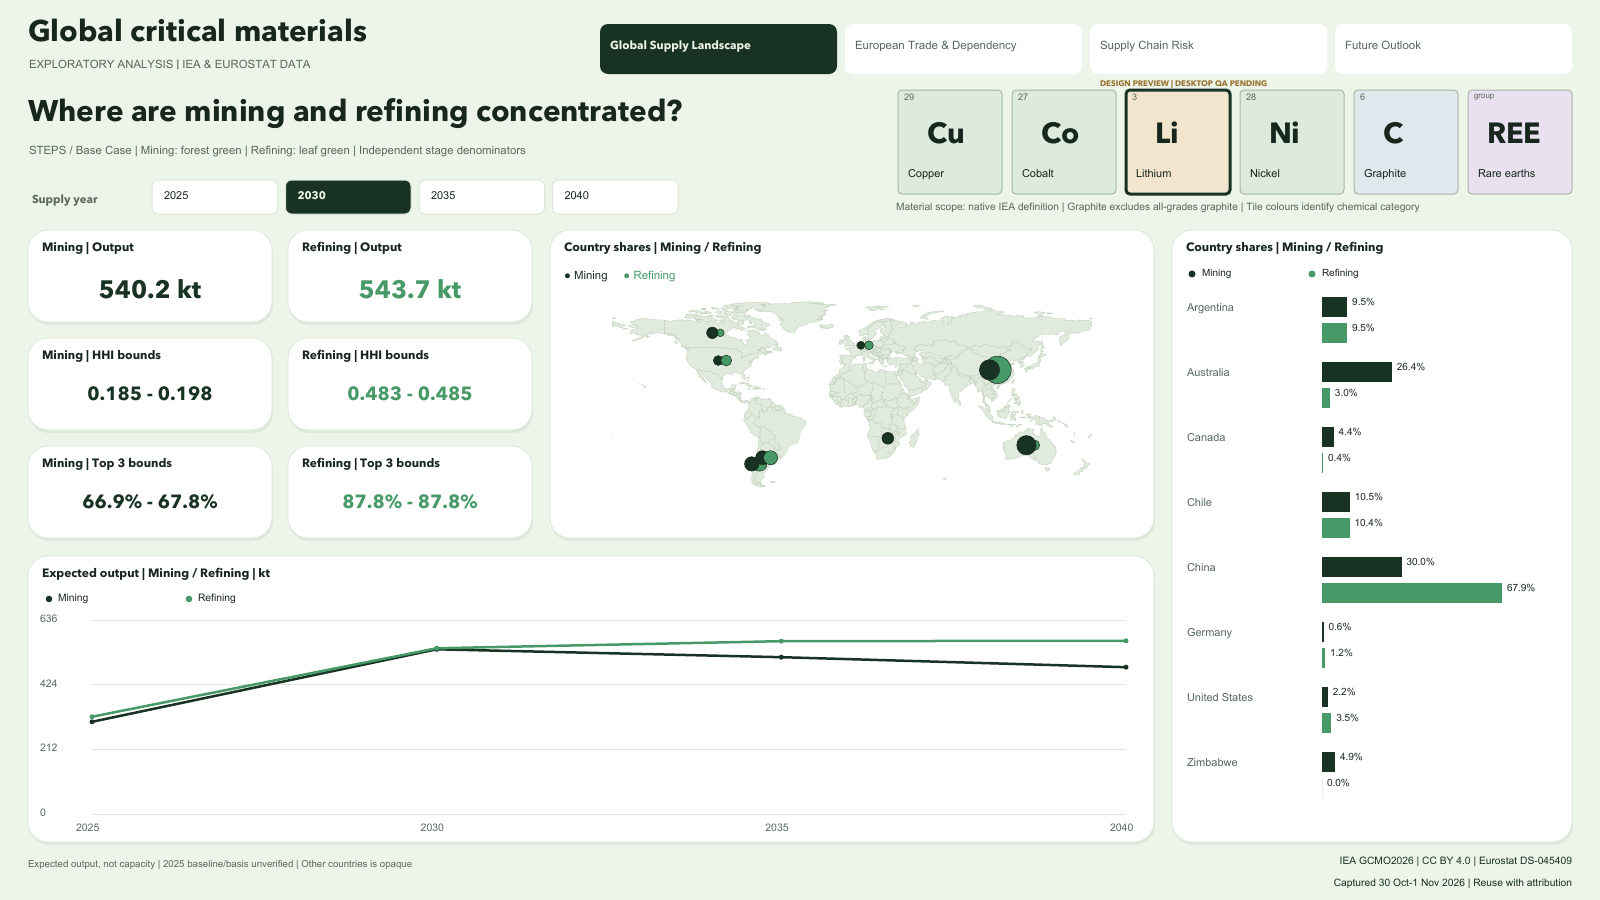
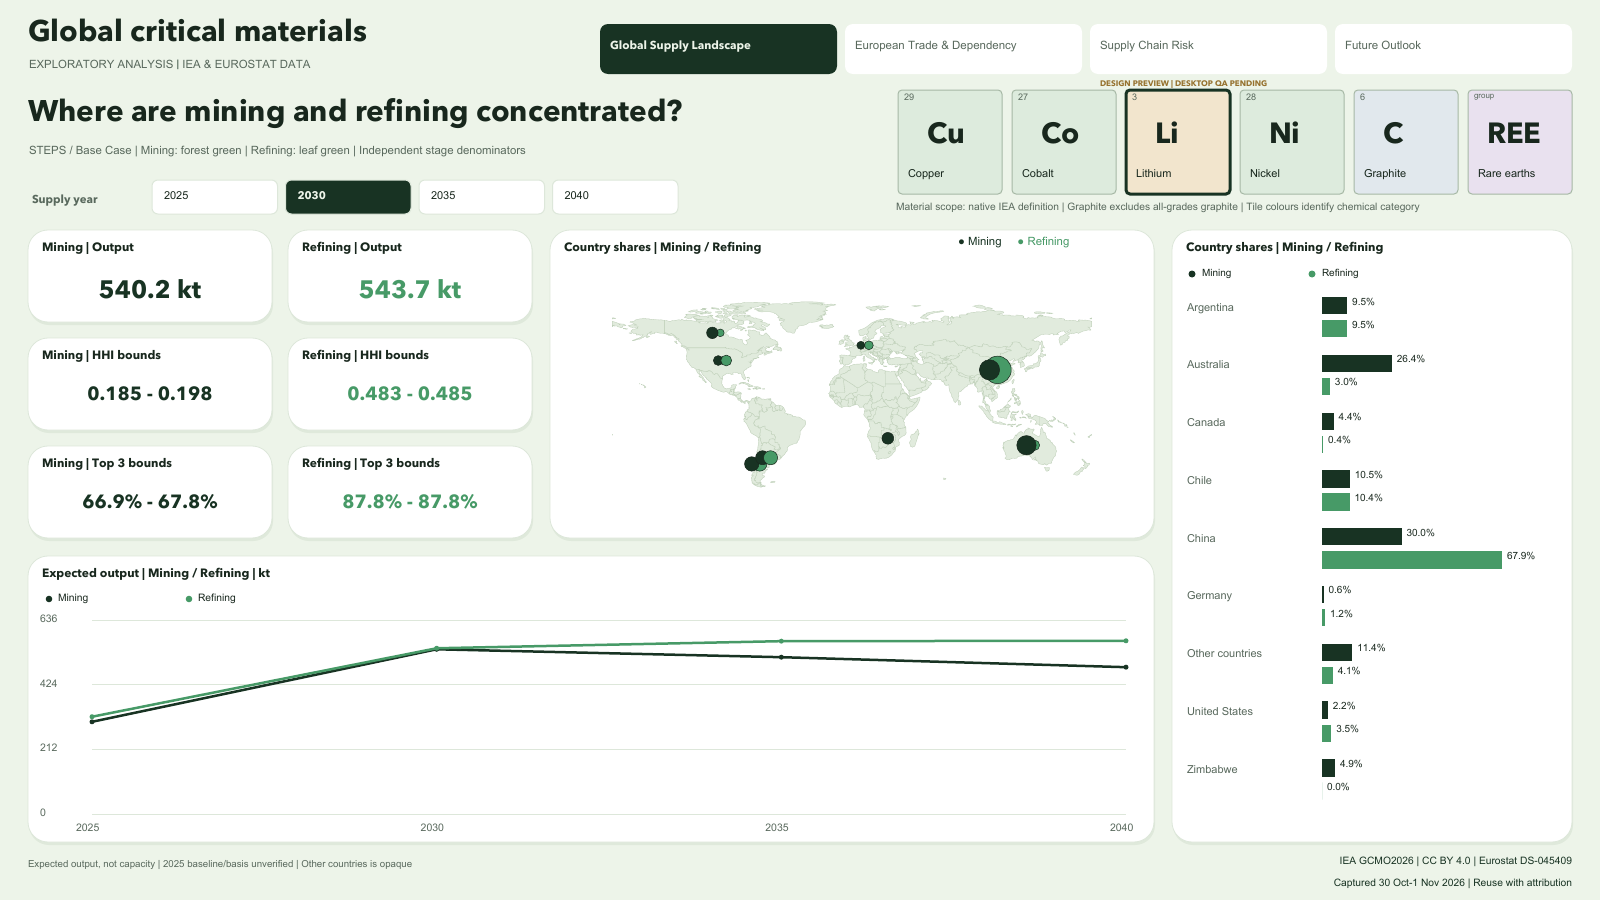
Show residual supply shares and move map legend into header

diff --git a/scripts/validate_powerbi_design.py b/scripts/validate_powerbi_design.py
@@ -51,6 +51,9 @@ def validate(project):
   if cfg['name']=='01_supply':
    country=next(v for v in visuals if v['visual']['visualType']=='clusteredBarChart')
    assert literal(country['visual']['objects']['labels'][0]['properties']['show'])=='true'
+   legend=next(v for v in text if v['visual']['objects']['general'][0]['properties']['paragraphs'][0]['textRuns'][0]['value']=='● Mining     ')
+   assert legend['position']['x']>=950 and legend['position']['y']<260
+   assert legend['visual']['objects']['general'][0]['properties']['paragraphs'][0]['horizontalTextAlignment']=='right'
    m=next(v for v in visuals if v['visual']['visualType']=='azureMap')['visual'];assert 'Series' not in m['query']['queryState']
    assert m['query']['queryState']['Category']['projections'][0]['queryRef']=='Supply.MapPoint'
   if cfg['name']=='04_outlook':
@@ -134,6 +137,14 @@ def validate(project):
  for table in ['Definitions','Products']:assert 'fromColumn: '+table+'.Family\n\ttoColumn: Materials.Family' in rel
  for table,col in [('Materials','Symbol'),('PartnerDisplay','PartnerDisplay'),('EndUses','EndUse')]:
   model=(project/'GlobalCriticalMaterials.SemanticModel/definition/tables'/(table+'.tmdl')).read_text();assert '\tcolumn '+col+'\n' in model and 'sortByColumn: SortOrder' in model
+ # Complete country bars include the opaque residual without assigning it a location.
+ from build_powerbi import MEASURES
+ assert 'IN {"country_or_territory","residual"}' in MEASURES['Country share']['expression']
+ assert 'Supply[EntityType]="country_or_territory"' in MEASURES['Map share']['expression']
+ panels=collections.defaultdict(list)
+ for r in rows('Supply'):panels[(r['DefinitionKey'],r['Year'],r['Stage'])].append(r)
+ assert all(math.isclose(sum(float(r['Share']) for r in rs),1,abs_tol=1e-9) for rs in panels.values())
+ assert all(sum(r['EntityType']=='residual' for r in rs)==1 for rs in panels.values())
  # Display offsets are available for every genuine country point; residuals stay excluded.
  map_rows=[r for r in rows('Supply') if r['EntityType']=='country_or_territory']
  assert all(r['DisplayLatitude'] and r['DisplayLongitude'] for r in map_rows)
@@ -143,7 +154,7 @@ def validate(project):
  assert all(set(v)=={'CPS','STEPS','HDS'} for v in scenarios.values())
  inversions=sum(not (v['CPS']<=v['STEPS']+1e-9<=v['HDS']+1e-9) for v in scenarios.values())
 
- return {'status':'passed_presentation_contracts_pending_Desktop','pages':len(pages),'identical_material_tile_groups':len(tiles),'partner_axis_groups':len(groups),'partner_scope_totals_preserved':scalars,'end_use_axis_categories':len(ends),'reported_zero_observations_preserved':zero_count,'reported_end_use_rows':len(detail),'map_country_rows_with_display_coordinates':len(map_rows),'scenario_end_use_groups_compared':len(scenarios),'nonmonotonic_scenario_groups':inversions,'scenario_chart':'three_comparable_bars_not_additive_stacks','Desktop_rendering_and_DAX_evaluation':'pending'}
+ return {'status':'passed_presentation_contracts_pending_Desktop','pages':len(pages),'identical_material_tile_groups':len(tiles),'partner_axis_groups':len(groups),'partner_scope_totals_preserved':scalars,'end_use_axis_categories':len(ends),'reported_zero_observations_preserved':zero_count,'reported_end_use_rows':len(detail),'supply_panels_with_residual_and_unit_share_sum':len(panels),'map_country_rows_with_display_coordinates':len(map_rows),'scenario_end_use_groups_compared':len(scenarios),'nonmonotonic_scenario_groups':inversions,'scenario_chart':'three_comparable_bars_not_additive_stacks','Desktop_rendering_and_DAX_evaluation':'pending'}
 
 if __name__=='__main__':
  p=argparse.ArgumentParser(description=__doc__);p.add_argument('--project',type=Path,required=True);p.add_argument('--output',type=Path,required=True);a=p.parse_args();r=validate(a.project);a.output.parent.mkdir(parents=True,exist_ok=True);a.output.write_text(json.dumps(r,indent=2)+'\n');print(json.dumps(r))

diff --git a/scripts/powerbi_report.py b/scripts/powerbi_report.py
@@ -238,10 +238,10 @@ def build_report(root,manifest,display_font=FONT_STACK):
    'bubbleLayer':props(show=lit(True),sizeByValue=lit(True),clusteringEnabled=lit(False),minBubbleRadius=lit(3),maxRadius=lit(18),mapTransparency=lit(15)),
    'commonDataOptions':props(showZeros=lit(False)), 'legend':props(show=lit(False)),
    'dataPoint':[{'properties':{'showAllDataPoints':lit(True)}},{'selector':{'data':[{'dataViewWildcard':{'matchingOption':1}}]},'properties':{'fill':{'solid':{'color':{'expr':field('ReportMeasures','Map color',True)}}}}}]},alt='Country display anchors, mining 3 degrees west and refining 3 degrees east; not facilities. Separate country/stage marker identities; stages never added. Circles may overlap at world scale.')
- legend=p.text(564,268,560,32,'● Mining     ● Refining',10)
+ legend=p.text(958,234,184,28,'● Mining     ● Refining',10,align='right')
  runs=legend['visual']['objects']['general'][0]['properties']['paragraphs'][0]['textRuns'];style=runs[0]['textStyle'];legend['visual']['objects']['general'][0]['properties']['paragraphs'][0]['textRuns']=[{'value':'● Mining     ','textStyle':dict(style,color=C['teal'])},{'value':'● Refining','textStyle':dict(style,color=C['blue'])}]
  v=p.chart('clusteredBarChart',1172,230,400,612,'Country shares · Mining / Refining',{'Category':[('Supply','Country',False)],'Y':[('ReportMeasures','Mining country share',True),('ReportMeasures','Refining country share',True)]},('Supply','Country',False,'asc'),extra={'categoryAxis':props(labelColor=color(C['muted']),fontFamily=lit(BODY_FONT),fontSize=lit(9),innerPadding=lit(15),maxMarginFactor=lit(40)),'labels':props(show=lit(True),fontFamily=lit(BODY_FONT),fontSize=lit(9),labelPrecision=lit(1),labelDisplayUnits=lit(1),labelPosition=lit('OutsideEnd'),labelOverflow=lit(True))})
- v['visual']['visualContainerObjects']['general'][0]['properties']['altText']=lit('Country shares of stage output. Individually identified countries only; Other countries is excluded from bars but retained in each denominator. Percentages are not rebased to visible countries.')
+ v['visual']['visualContainerObjects']['general'][0]['properties']['altText']=lit('Shares of each stage output, including the source residual Other countries. The residual is an undisclosed country group, not a single country. Mining and refining have separate denominators; shares are not rebased to visible bars.')
  p.chart('lineChart',28,556,1126,286,'Expected output · Mining / Refining · kt',{'Category':[('Supply','Year',False)],'Y':[('ReportMeasures','Mining output kt',True),('ReportMeasures','Refining output kt',True)]},('Supply','Year',False,'asc'))
  p.finish()
  # Trade: compact fixed partner axis with its own missing-data explanation.

diff --git a/scripts/build_powerbi.py b/scripts/build_powerbi.py
@@ -30,7 +30,7 @@ measure('One definition','HASONEVALUE(Definitions[DefinitionKey])')
 measure('One product','HASONEVALUE(Products[ProductCode])')
 measure('One reporter','HASONEVALUE(Reporters[ReporterKey])')
 measure('Panel tonnes','IF([One definition] && HASONEVALUE(Stages[Stage]),CALCULATE(MAX(Supply[PanelTonnes]),TREATAS({[Selected supply year]},Supply[Year])))','#,0','Supply')
-measure('Country share','IF([One definition] && HASONEVALUE(Stages[Stage]),CALCULATE(MAX(Supply[Share]),Supply[EntityType]="country_or_territory",TREATAS({[Selected supply year]},Supply[Year])))','0.0%','Supply')
+measure('Country share','IF([One definition] && HASONEVALUE(Stages[Stage]),CALCULATE(MAX(Supply[Share]),Supply[EntityType] IN {"country_or_territory","residual"},TREATAS({[Selected supply year]},Supply[Year])))','0.0%','Supply')
 measure('Supply trend kt','IF([One definition] && HASONEVALUE(Stages[Stage]),DIVIDE(SUM(Supply[QuantityTonnes]),1000))','#,0.0','Supply')
 for suffix,col in [('lower','HHILower'),('upper','HHIUpper'),('residual','ResidualShare'),('top3 lower','Top3Lower'),('top3 upper','Top3Upper'),('top5 lower','Top5Lower'),('top5 upper','Top5Upper')]:
  measure('Supply '+suffix,'IF([One definition] && HASONEVALUE(Stages[Stage]),CALCULATE(MAX(Concentration['+col+']),TREATAS({[Selected supply year]},Concentration[Year])))','0.000' if 'lower' in suffix and suffix=='lower' or suffix=='upper' else '0.0%','Supply')

diff --git a/scripts/preview_powerbi.py b/scripts/preview_powerbi.py
@@ -165,7 +165,7 @@ class Renderer:
   for j,(name,a,bb) in enumerate(pairs):
    fg=PALETTE[j%6];xx=l+side*a;yy=b-side*bb;self.dot(xx,yy,5.8,fg);self.text(xx+8,yy+(5 if name=='Co' else -18 if name=='REE' else -14),name.replace('Magnet rare earth elements','Magnet REE'),10,C['text'],maxwidth=r-xx+15)
  def paired_bars(self,x,y,w,h):
-  rows=[r for r in self.d['Supply'] if r['DefinitionKey']==self.li and r['Year']==2030 and r['EntityType']=='country_or_territory']
+  rows=[r for r in self.d['Supply'] if r['DefinitionKey']==self.li and r['Year']==2030 and r['EntityType'] in ['country_or_territory','residual']]
   lookup={(r['Country'],r['Stage']):r['Share'] for r in rows};countries=sorted({r['Country'] for r in rows})
   self.dot(x+20,y+44,3.5,C['teal']);self.text(x+30,y+36,'Mining',10,C['text']);self.dot(x+140,y+44,3.5,C['blue']);self.text(x+150,y+36,'Refining',10,C['text'])
   left=x+150;pw=w-220;top=y+67;rh=(h-92)/max(len(countries),1);mx=max(lookup.values()) or 1

diff --git a/docs/methodology/report_interpretation.md b/docs/methodology/report_interpretation.md
@@ -10,7 +10,7 @@ A small disclosed EU output share does not quantify European consumption-based i
 
 ## Country shares
 
-Country bars show individually identified country rows; Other countries is excluded from the bars and map, but remains in each mining/refining denominator. Shares therefore do not necessarily sum to 100% across the displayed bars. Selecting or scrolling countries does not rebase the shares. The simpler chart title Country shares uses this same contract.
+Country bars include individually identified countries and the source residual Other countries. The residual is an undisclosed group, not one country; it stays off the map because it has no single location. Within an available material/year/stage panel, the complete bars sum to 100% before display rounding. Mining and refining have independent denominators. Selecting or scrolling countries does not rebase the shares.
 
 ## HHI and the diagonal
 
